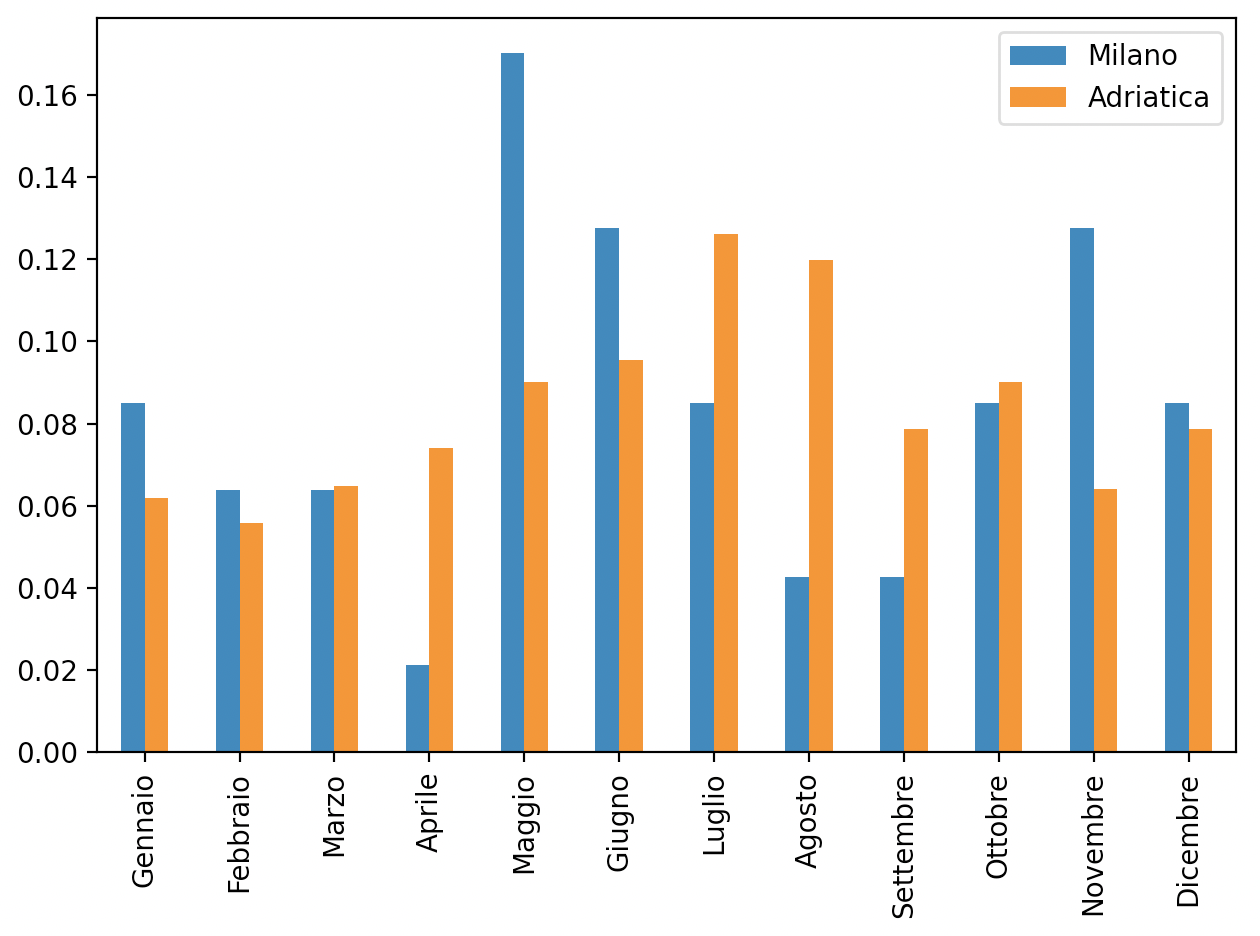
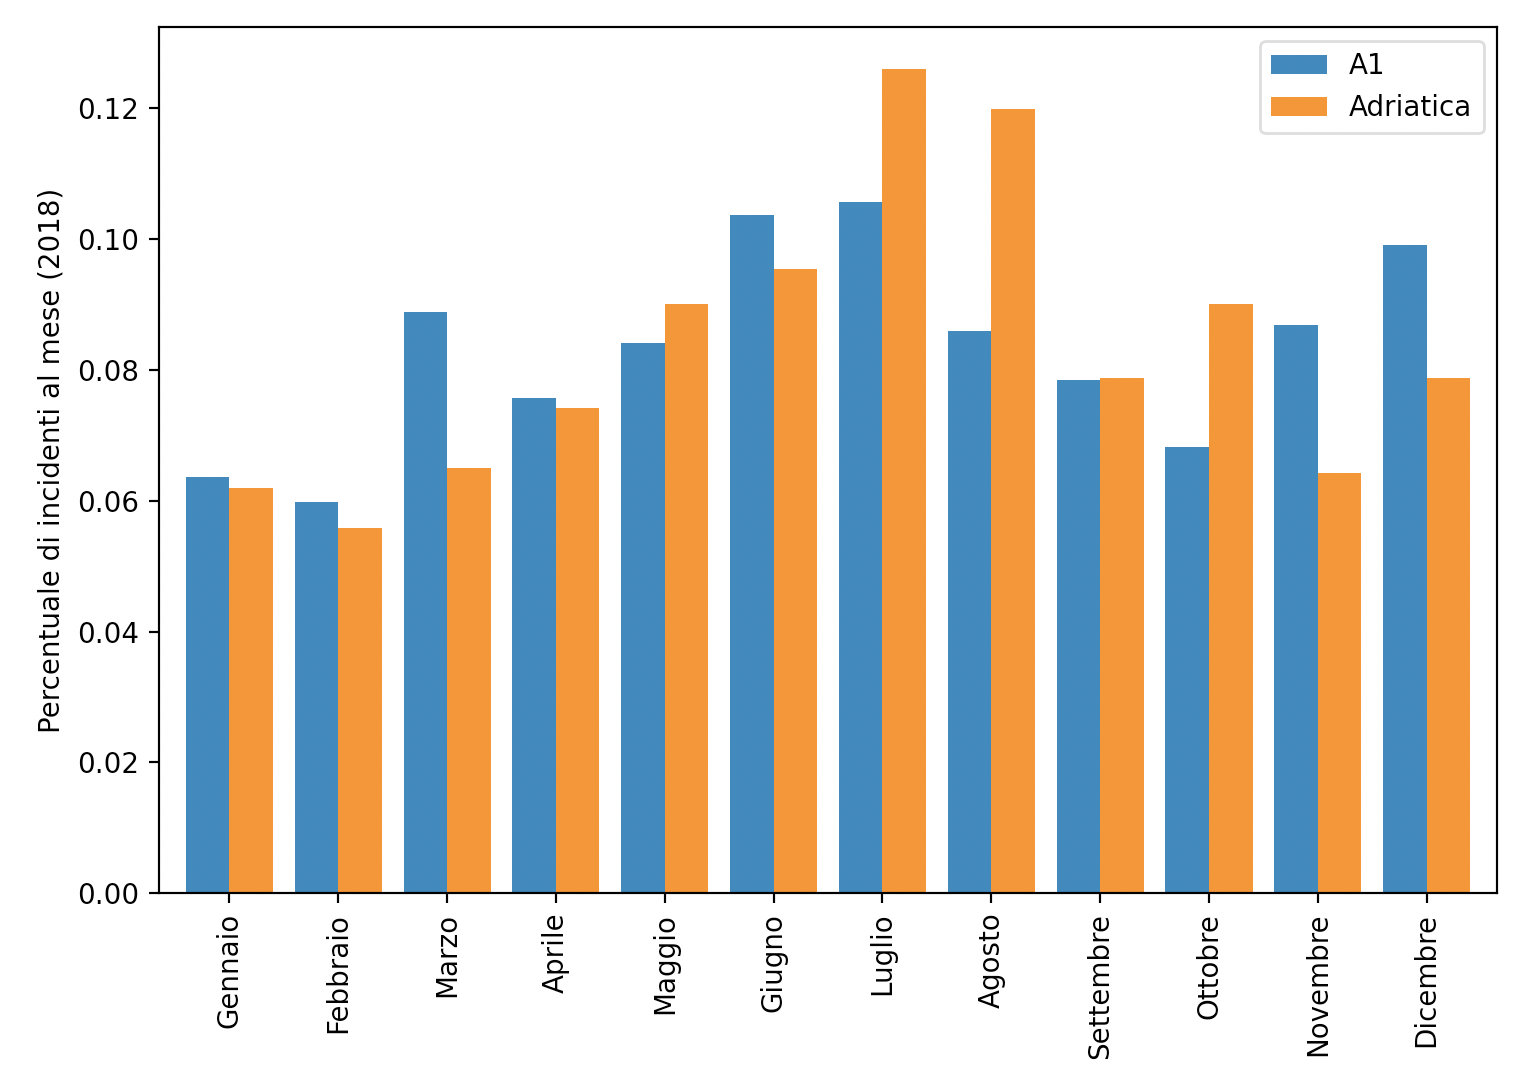
migliorato grafo

diff --git a/tesi/Tesi.tex b/tesi/Tesi.tex
@@ -980,7 +980,7 @@ sempre Lombardia e Veneto.
     \label{fig:regione-heatmap}
 \end{figure}
 
-Se invece si guardasse il trimestre estivo?
+Se invece si guardasse la differenza tra mesi estivi e mesi invernali?
 
 \begin{figure}
     \includegraphics[width=\linewidth]{../src/incidenti/incidenti_aci/mappe_regioni/incidenti_estate_inverno.png}
@@ -1073,10 +1073,11 @@ incidenti in Luglio e Agosto, mentre l'A1, ha picco più basso in Agosto, probab
 perchè bilanciato dagli incidenti in inverno intorno a Milano.
 
 % controllare se avvengono più incidenti in inverno intorno a milano
-Infatti se si prendono solo i dati della A1 nella provincia di Milano, si nota 
-che in Maggio e Settembre avvengono la maggior parte degli incidenti.
+Se si prendono i dati della A1, si nota 
+che in Agosto, Settembre e Ottobre il numero degli incidenti diminuisce.
 Invece sull'Adriatica, raffigurata nel grafo \ref{fig:milano-adriatica}, 
 prevalgono incidenti in Luglio e Agosto.
+
 \begin{figure}
     \includegraphics[width=\linewidth]{../src/incidenti/incidenti_aci/autostrade/milano_adriatica.png}
     \caption{Incidenti in provincia di Milano e sull'Adriatica}

diff --git a/src/incidenti/incidenti_aci/autostrade/mese_autostrade.py b/src/incidenti/incidenti_aci/autostrade/mese_autostrade.py
@@ -101,9 +101,11 @@ adriatica = data[data['CODICE'] == 'SS01601']
 a1 = data[data['CODICE'] == 'AA00101']
 a1_milano = a1[a1['PROVINCIA'] == 'Milano'][mesi]
 
+a1 = sum_columns(a1[mesi], normalize=True)
 a1_milano = sum_columns(a1_milano[mesi], normalize=True)
 adriatica = sum_columns(adriatica[mesi], normalize=True)
 
-pd.DataFrame([a1_milano, adriatica], ['Milano', 'Adriatica']).transpose().plot.bar()
+df = pd.DataFrame([a1, adriatica], ['A1', 'Adriatica']).transpose().plot.bar(width=0.8)
+plt.ylabel("Percentuale di incidenti al mese (2018)")
 plt.tight_layout()
 plt.show()
